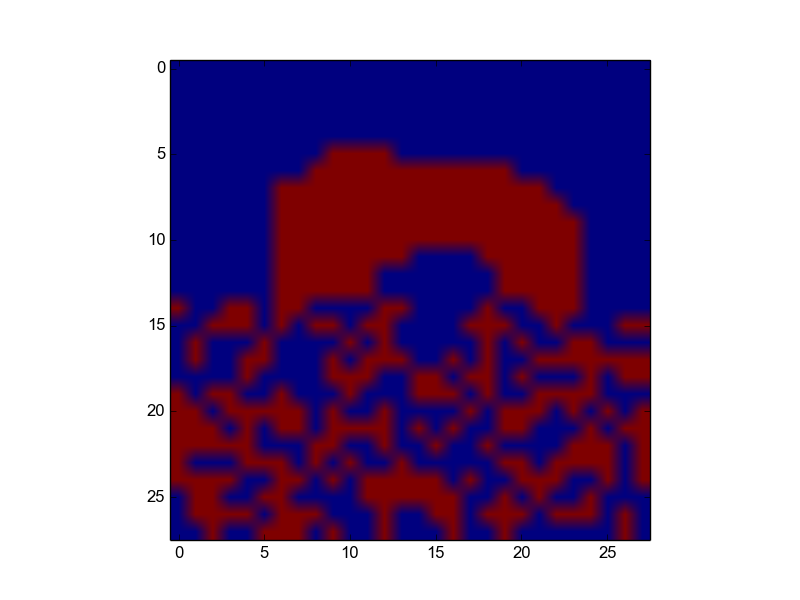
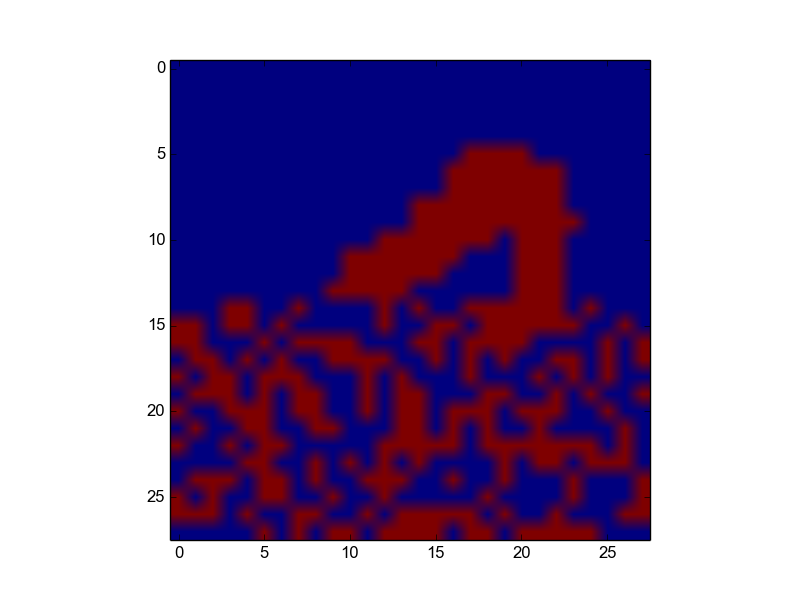
general failure there, I'm afraid

Changed region(s): [[0.1875, 0.21, 0.8125, 0.9]]

diff --git a/bm.py b/bm.py
@@ -148,7 +148,7 @@ def create_word_graph(filename="corpus.txt"):
         words = corpus_file.read().split()
         washed, word_dict = wash(words)
         for first, second in zip(washed, washed[1:]):
-            net.add_edge(first, second, weight=npr.normal() * 0.05)
+            net.add_edge(first, second, weight=npr.normal() * 0.01)
     for node, node_data in net.nodes_iter(data=True):
         node_data["state"] = flip()
     return net
@@ -210,7 +210,7 @@ def make_mnist_sample():
 def mnist_test():
     sample, completion = make_mnist_sample()
     net = create_word_graph()
-    for x in xrange(15):
+    for x in xrange(500):
         print "x: ", x
         net = learn_step(net, redo_arr(np.rint(sample[x])))
     print "============"
